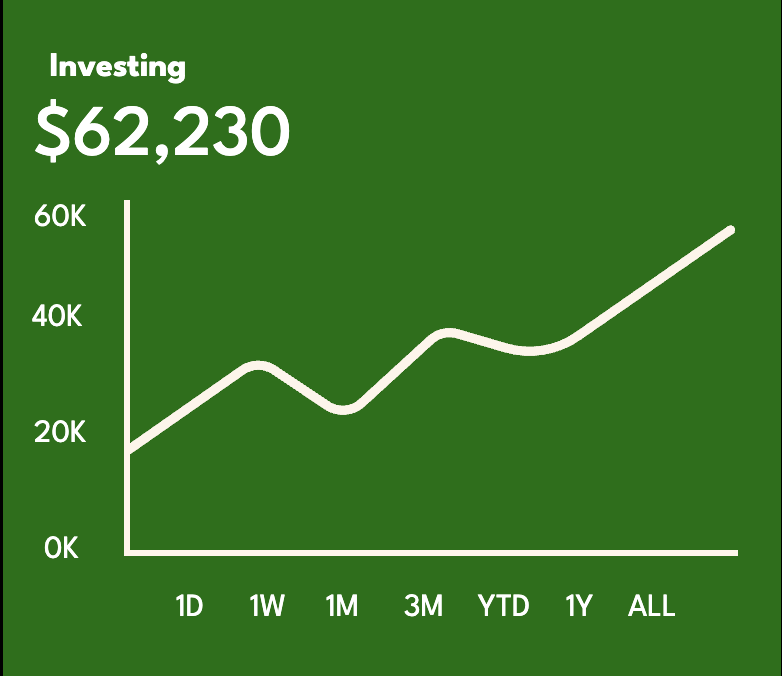
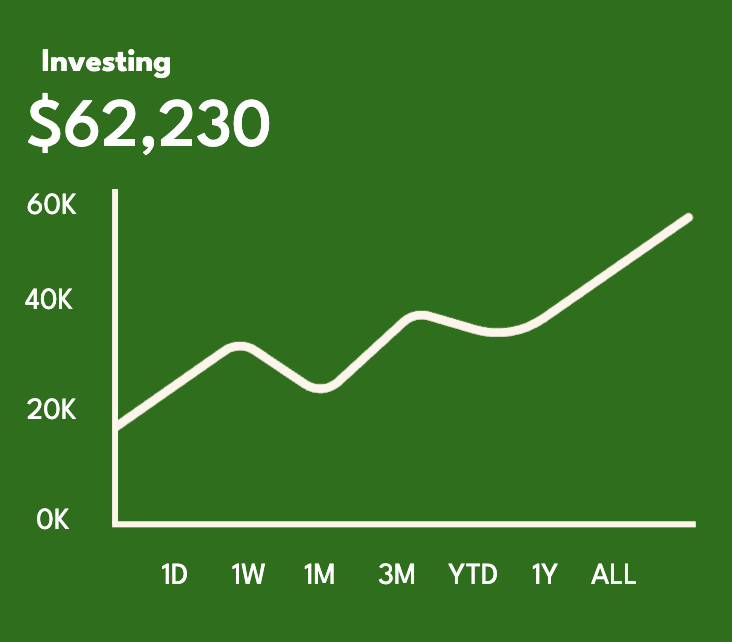
updated

diff --git a/investments.html b/investments.html
@@ -24,7 +24,7 @@
         <span class="total-value">$ 62,230</span>
         <div class="investment-chart">
           <img src="investment.png" alt="Investment Chart" />
-          <div class="chart-time-selectors">
+          <!-- <div class="chart-time-selectors">
             <button class="time-selector">1D</button>
             <button class="time-selector">1W</button>
             <button class="time-selector active">1M</button>
@@ -32,13 +32,13 @@
             <button class="time-selector">YTD</button>
             <button class="time-selector">1Y</button>
             <button class="time-selector">ALL</button>
-          </div>
-          <div class="chart-y-labels">
+          </div> -->
+          <!-- <div class="chart-y-labels">
             <span>60K</span>
             <span>40K</span>
             <span>20K</span>
             <span>0K</span>
-          </div>
+          </div> -->
         </div>
       </div>
       <div class="biggest-movers">

diff --git a/news.css b/news.css
@@ -73,13 +73,6 @@ img {
   box-shadow: 0 2px 4px rgba(0, 0, 0, 0.05); /* Subtle shadow */
 }
 
-.news-item img {
-  max-width: 100%;
-  height: auto;
-  border-radius: 5px;
-  margin-bottom: 10px;
-}
-
 .news-item h3 {
   color: #333;
   font-size: 1.1em;
@@ -139,4 +132,14 @@ img {
   font-size: 0.8em;
   margin-top: 20px;
   text-align: center;
+}
+
+.news-item img {
+  max-width: 100%;
+  height: auto;
+  border-radius: 5px;
+  margin-bottom: 10px;
+  display: block; /* Make the image a block-level element */
+  margin-left: auto;
+  margin-right: auto; /* Center the block-level element */
 }

diff --git a/budget.html b/budget.html
@@ -48,11 +48,11 @@
         </div>
         <div class="spending-chart">
           <img src="spending.png" alt="Spending Chart" />
-          <div class="chart-labels">
+          <!-- <div class="chart-labels">
             <span>7.5K</span>
             <span>5K</span>
             <span>2.5K</span>
-          </div>
+          </div> -->
         </div>
       </div>
       <div class="bottom-navigation">
